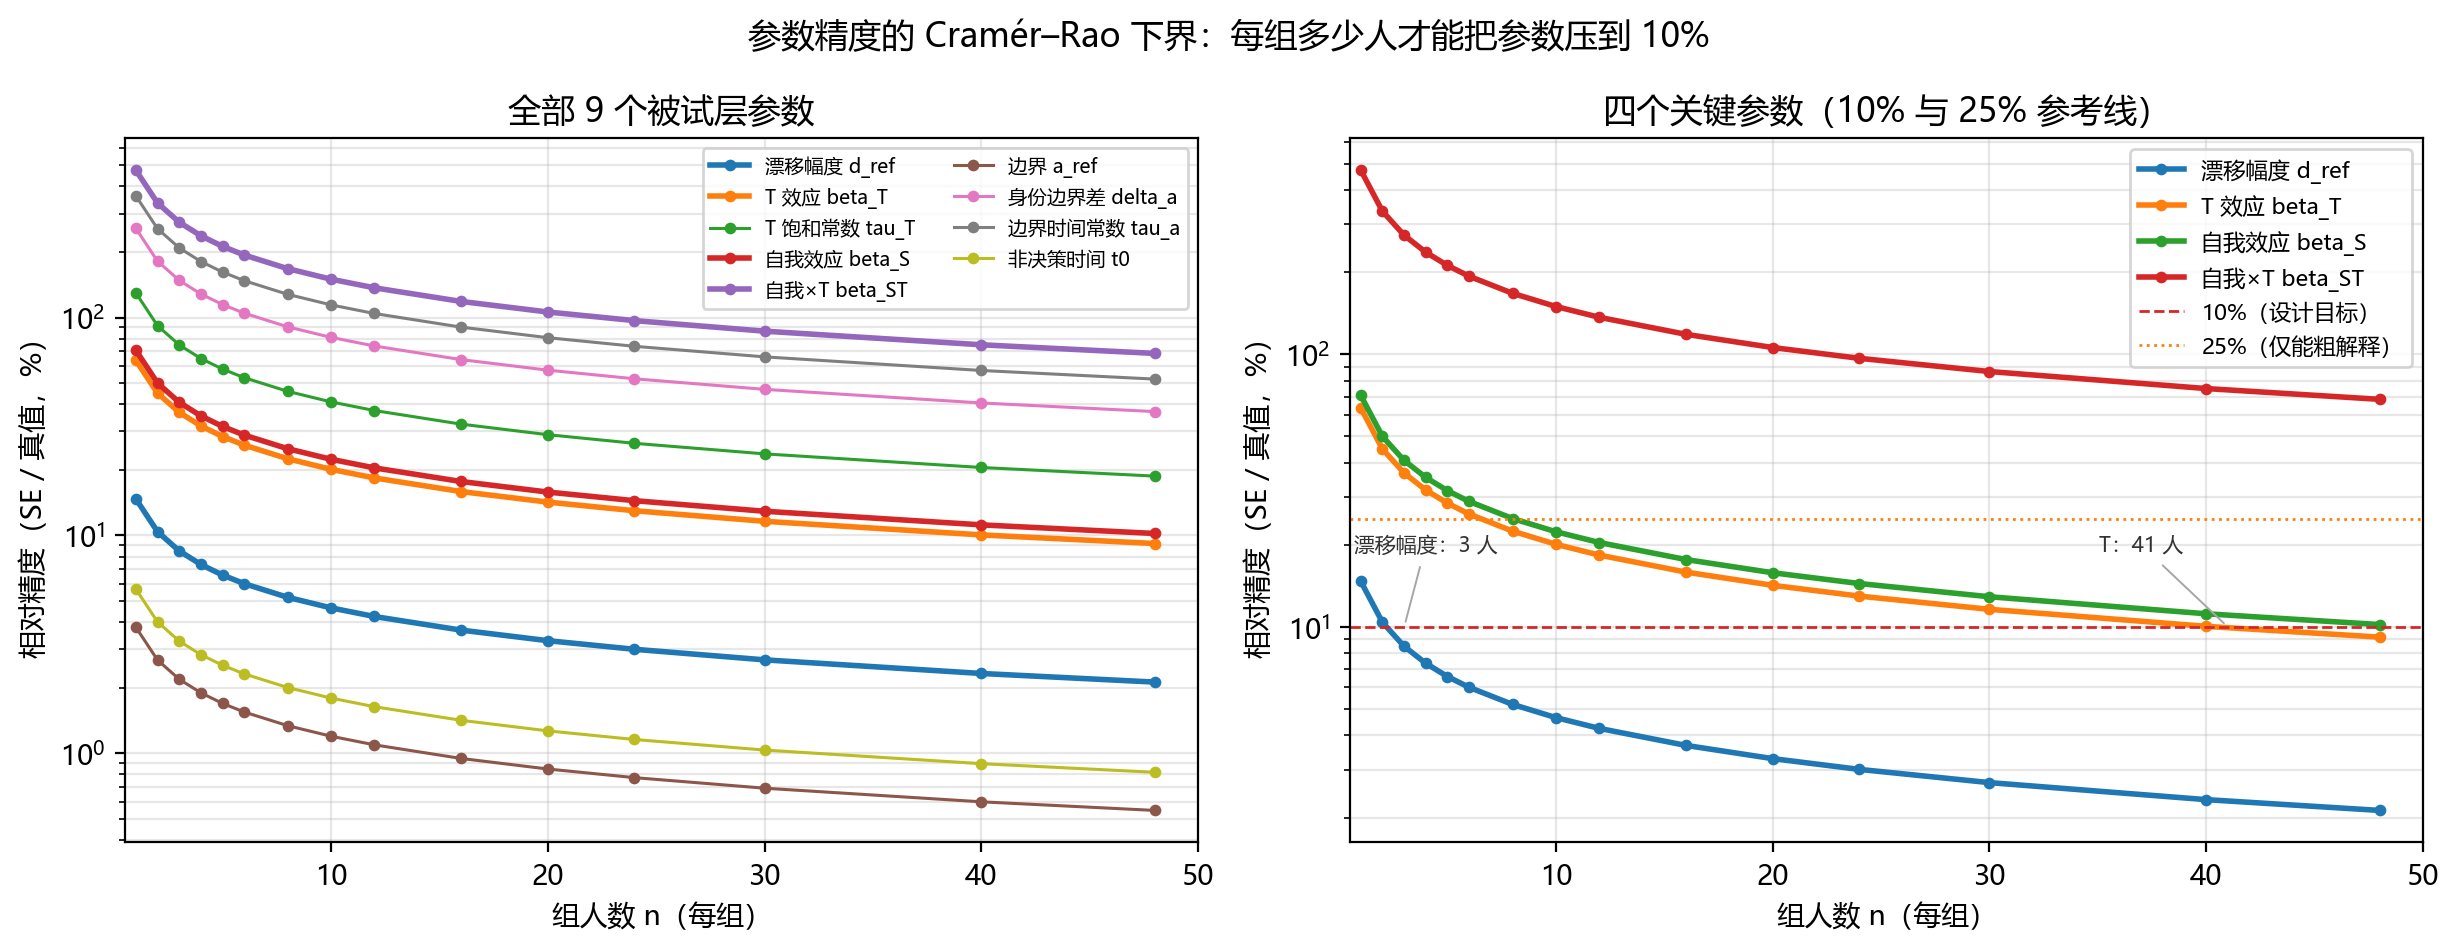
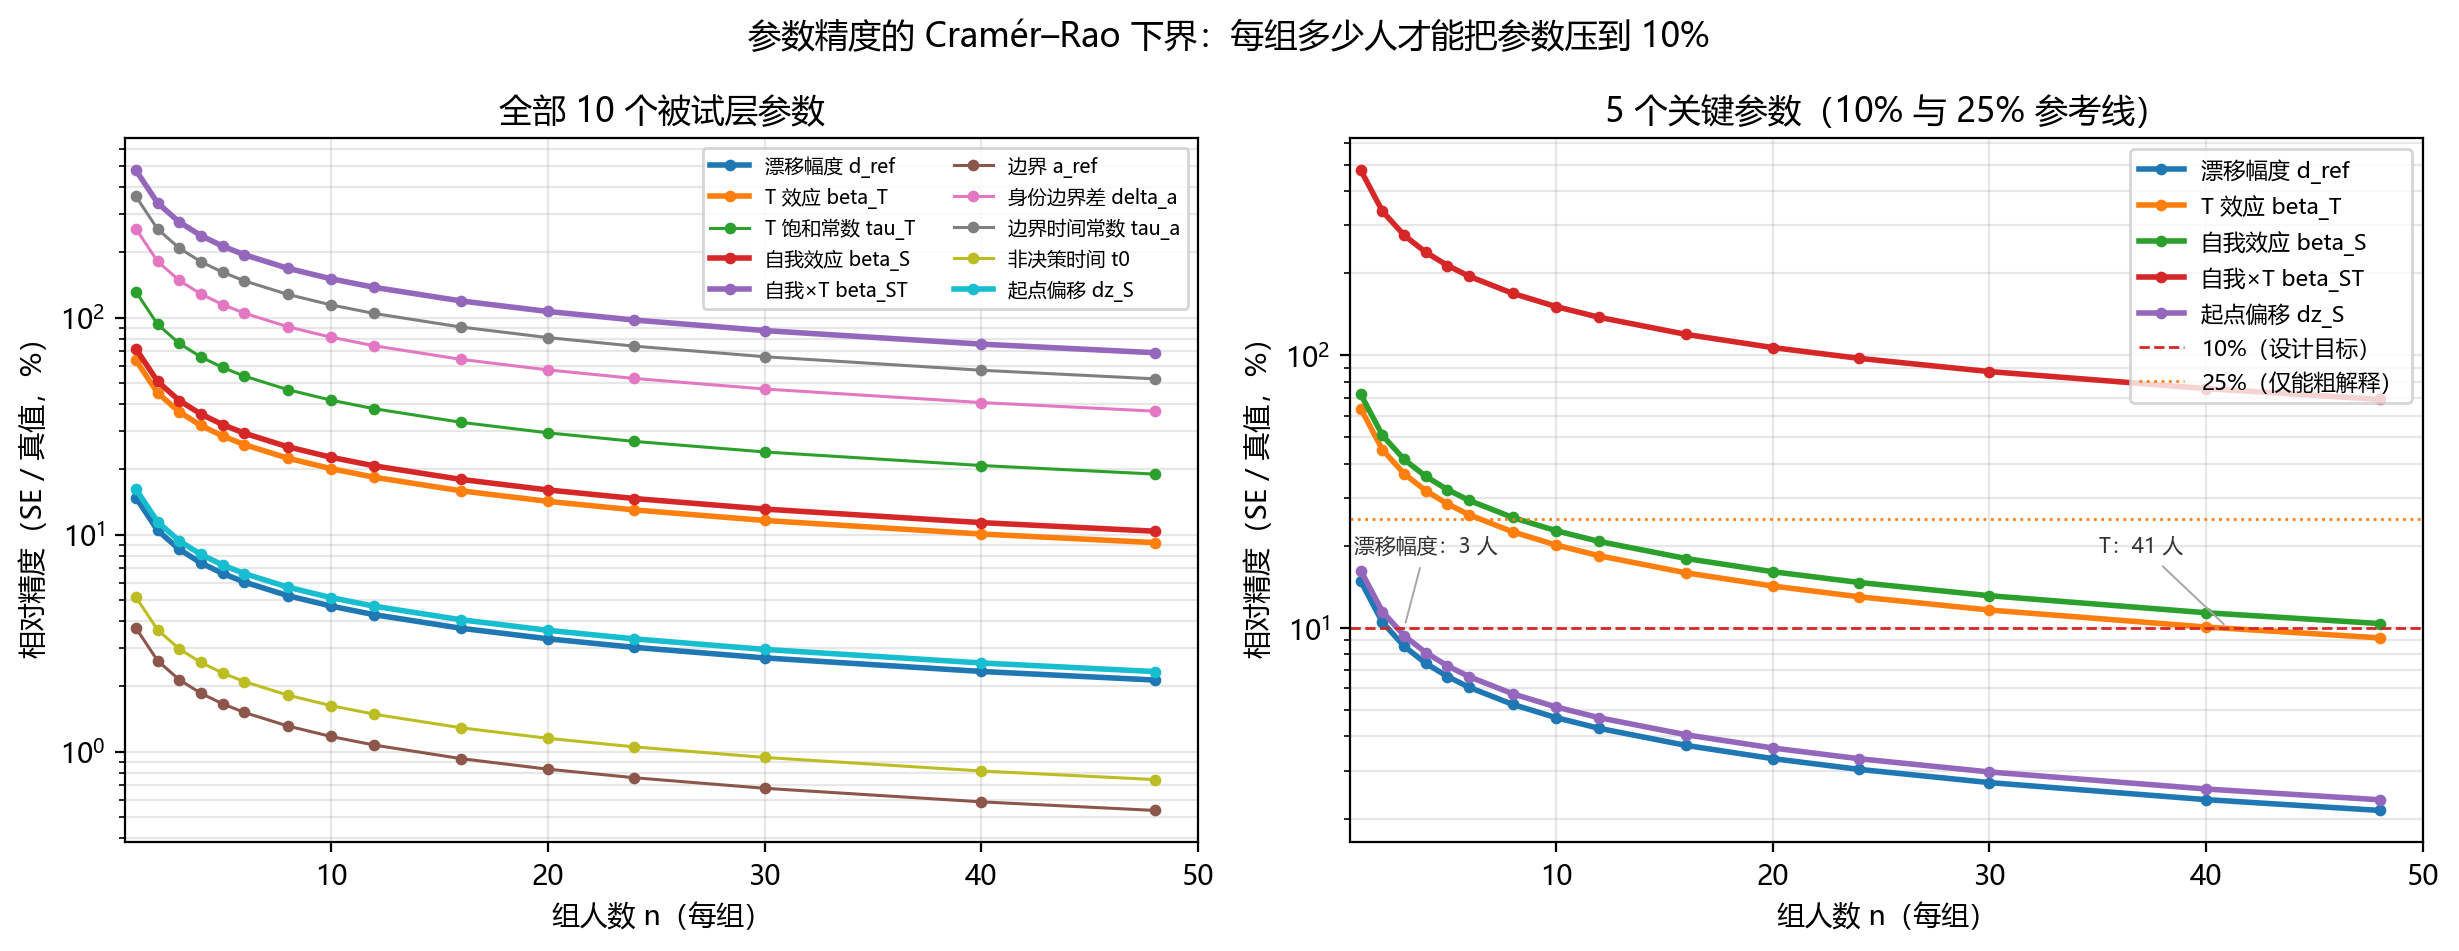
feat(crlb): 可辨识性产物升到 10 参数（含 dz_S），§8.79 + 模型章 §3.8 收口
D118 把判据通道 Δz_S 加进主模型后，WITHIN_FREE 9→10、WITHIN_FREE_LIN 7→8，
但已落盘的 CRLB 图与人数表仍是旧口径（模型章 §3.8 还挂着「尚未重跑」的脚注）。

代码
- design_fim.py：TRUTH 加 dz_S=0.10（不能取 0，相对 SE 会除零）；
  PRIMARY 扩为 6 个展示参数；NAMES = list(WITHIN_FREE) 加注释（自动跟随，现 10 个）
- make_sim_figures.py：KEY_PARAMS 加 dz_S（右图 5 条）；ZH/EN 补条目；
  小标题改按 len() 计数；write_index 里两处写死文案改吃 c["omission"] 与参数个数
  （不改的话，下次整脚本一跑会把 figures_index.md 覆盖回旧数）
- 新建 _scratch/regen_crlb_10p.py：只重跑 CRLB 三件，避免顺带跑 oracle

读数（D4，576 试次/人，10 参数）
- 正确率 0.823、遗漏 0.309、RT 749 ms；cond(I)=1.3e+05
- 单被试 SE：dz_S 0.0162（16.2%，3 人/组到 10%）、beta_S 0.1151、
  beta_ST 0.4773、tau_T 0.1054、delta_a 1.4133、tau_a 2.5339
- 其余九行相对 9 参数版本变化 <1.5% ⇒ D109 的 37–43 人/组、beta_T 为硬约束不变
- 名次仍为 D4-rep16 0.545 < T-wide 0.583 < W-high 0.608 < D4 0.641（档位阈值未改）

文档
- 1_Code/DDM_Core/README.md 新增 §8.79（为什么要重跑 / 改了什么 / 读数表 / 产物 / 尚未做），
  §8.75 的 CRLB 行换成 10 参数读数并指向 §8.79，§9 表补第 99 行（D118 + 本次重跑）
- 模型章 §3.8：表全行换 10 参数读数，Δz_S 真值改 0.10/SE 0.016/N 3，删掉旧 † 脚注，
  改写为两条口径说明（九行不变 ⇒ 人群规模沿用；CRLB 0.016 与 §3.15.4 的 OPG 0.015 互相印证）
- figures_index.md 由修好的 write_index 重生成（10 行人数表、遗漏率 0.309）
- 对照表 §3.3 的 TRUTH_EXP 补 Δz_S=0.10（10 参数口径，2026-10-24）

产物：fig_sim_crlb.png（10 条曲线）、sim_crlb.csv（10 行）重生成；
fig_sim_p_design.png / fig_sim_trials.png 未动（走 TRUTH_LIN，与本参数集无关）。

diff --git a/1_Code/DDM_Core/_scratch/regen_crlb_10p.py b/1_Code/DDM_Core/_scratch/regen_crlb_10p.py
@@ -1,0 +1,53 @@
+# -*- coding: utf-8 -*-
+"""只重跑 CRLB 部分（10 参数口径，含 dz_S），不动 oracle / 试次图。
+
+用 `make_sim_figures.py` 自己的函数，保证产物与整套脚本逐字节同源：
+    fig_sim_crlb.png   ——  3_Figures/figures_sim/
+    sim_crlb.csv       ——  5_Reference/03_论文写作/figures_sim/
+
+为什么单独写：`make_sim_figures.main()` 会顺带跑 oracle（3 场景 × 6 个 N ×
+400 次重复），与 `dz_S` 无关，几分钟纯浪费；且 oracle 的 CSV 不该被这次改动覆盖。
+"""
+from __future__ import annotations
+
+import csv
+import sys
+from pathlib import Path
+
+sys.stdout.reconfigure(encoding="utf-8", errors="replace")
+
+_ROOT = Path(__file__).resolve().parents[3]
+sys.path.insert(0, str(_ROOT / "1_Code" / "Experiment"))
+
+import make_sim_figures as M  # noqa: E402
+
+
+def main() -> int:
+    out = _ROOT / "5_Reference" / "03_论文写作" / "figures_sim"
+    figout = _ROOT / "3_Figures" / "figures_sim"
+    out.mkdir(parents=True, exist_ok=True)
+    figout.mkdir(parents=True, exist_ok=True)
+
+    plt, lang = M.setup_matplotlib("zh")
+    print("CRLB（10 参数，含 dz_S）…", flush=True)
+    c = M.crlb(12)
+    for n in c["names"]:
+        se, tv = c["se"][n], c["truth"][n]
+        print(f"  {n:8s} 真值={tv:7.4f}  SE={se:9.4f}  相对={se / abs(tv):7.3f}  "
+              f"10% 需 N={M.n_for_target(c, n, 0.10)}  25% 需 N={M.n_for_target(c, n, 0.25)}")
+
+    p = M.fig_crlb(plt, c, figout, lang)
+    print(f"\n图 → {p}")
+    with (out / "sim_crlb.csv").open("w", newline="", encoding="utf-8") as f:
+        w = csv.writer(f)
+        w.writerow(["param", "truth", "se_per_subject", "n_for_10pct", "n_for_25pct"])
+        for n in c["names"]:
+            w.writerow([n, c["truth"][n], c["se"][n],
+                        M.n_for_target(c, n, 0.10), M.n_for_target(c, n, 0.25)])
+    print(f"表 → {out / 'sim_crlb.csv'}")
+    print(f"   试次={c['n_trials']}  正确率={c['acc']:.3f}  遗漏={c['omission']:.3f}  RT={c['rt_ms']:.0f} ms")
+    return 0
+
+
+if __name__ == "__main__":
+    raise SystemExit(main())

diff --git a/1_Code/DDM_Core/design_fim.py b/1_Code/DDM_Core/design_fim.py
@@ -61,10 +61,17 @@ TRUTH = MappingParams(
     beta_S=0.16, beta_ST=0.10,
     w_model="W1", a_ref=2.00, delta_a=0.55, tau_a=0.70,
     t0=0.22, z_ratio=0.50,
+    #: 起点通道（D118）。``0.10`` 是**设计用**的圆整值：实测 87 人反解出
+    #: ``β_S≈0.19、Δz_S≈0.085``（模型章 §3.15.3）。CRLB 对 dz_S 的 SE 几乎
+    #: 不依赖真值大小（信息量 ∝ 该参数带来的试次级差异），故 0.085/0.10
+    #: 给出的人数是同一个量级。取 0 会让相对 SE 除以 0，故不能留默认值。
+    dz_S=0.10,
 )
 
-#: 论文里真正要解释的参数（用于给设计排总名次）
-PRIMARY = ["d_ref", "beta_T", "tau_T", "beta_S", "beta_ST"]
+#: 论文里真正要解释的参数（用于给设计排总名次）。
+#: 2026-10-22（D118）把 ``dz_S`` 并入：判据通道现在是主假设 H4 的一半，
+#: 不排进 PRIMARY 会让「设计是否够用」的结论漏掉它。
+PRIMARY = ["d_ref", "beta_T", "tau_T", "beta_S", "beta_ST", "dz_S"]
 #: W→a 通路（P1 曾发现只有 6.7% 变化，单独看）
 A_PATH = ["a_ref", "delta_a", "tau_a"]
 
@@ -90,6 +97,8 @@ DESIGNS = {
     "A-screen  (2T×2W, r16)": ([0.0333, 0.14999], [0.79998, 1.79990], 16),
 }
 
+#: 参数名与顺序**直接跟随** ``mapping.WITHIN_FREE``（exp 形式，当前 10 个，
+#: 含 ``dz_S``）——加参数时这里自动跟上，不需要改本文件。
 NAMES = list(WITHIN_FREE)
 N_FIM = 12                  # 平均信息矩阵的独立模拟份数
 

diff --git a/5_Reference/03_论文写作/论文_模型章_模板.md b/5_Reference/03_论文写作/论文_模型章_模板.md
@@ -149,22 +149,24 @@ $$
 
 ## 3.8 可辨识性：本设计能估什么、不能估什么
 
-以下数字来自**解析 CRLB**（每个被试 576 试次，`4T×3W r12`），含义是"要把该参数压到真值的 10% / 25%，每组需要多少人"：
+以下数字来自**解析 CRLB**（每个被试 576 试次，`4T×3W r12`；**10 个被试层参数全部自由，含 `Δz_S`**，2026-10-24 按 8 参数 D118 更新后重跑），含义是"要把该参数压到真值的 10% / 25%，每组需要多少人"：
 
 | 参数 | 真值 | 单被试 SE | 到 10% 需 N | 到 25% 需 N | 判定 |
 |---|---|---|---|---|---|
-| `d_ref` | 0.70 | 0.103 | **3** | 1 | ✅ 稳 |
+| `d_ref` | 0.70 | 0.104 | **3** | 1 | ✅ 稳 |
 | `β_T` | 0.55 | 0.350 | **41** | 7 | ✅ 主效应，10–15 人/组报区间 |
-| `τ_T` | 0.08 | 0.104 | 169 | 27 | ⚠ 探索性 |
-| `β_S` | 0.16 | 0.113 | 51 | 9 | ⚠ 探索性 |
-| `Δz_S` † | 0.12 | 0.015 | **1** | 1 | ✅ 稳（判据通道） |
-| `β_ST` | 0.10 | 0.474 | **2248** | 360 | ❌ 不可估 |
-| `a_ref` | 2.00 | 0.076 | 1 | 1 | ✅ 稳 |
-| `Δa` | 0.55 | 1.410 | 658 | 106 | ❌ 不可估 |
-| `τ_a` | 0.70 | 2.530 | 1307 | 209 | ❌ 不可估 |
-| `t0` | 0.22 | 0.012 | 1 | 1 | ✅ 稳 |
+| `τ_T` | 0.08 | 0.105 | 174 | 28 | ⚠ 探索性 |
+| `β_S` | 0.16 | 0.115 | 52 | 9 | ⚠ 探索性 |
+| `Δz_S` | 0.10 | **0.016** | **3** | 1 | ✅ 稳（判据通道） |
+| `β_ST` | 0.10 | 0.478 | **2281** | 365 | ❌ 不可估 |
+| `a_ref` | 2.00 | 0.074 | 1 | 1 | ✅ 稳 |
+| `Δa` | 0.55 | 1.413 | 661 | 106 | ❌ 不可估 |
+| `τ_a` | 0.70 | 2.534 | 1311 | 210 | ❌ 不可估 |
+| `t0` | 0.22 | 0.011 | 1 | 1 | ✅ 稳 |
 
-† `Δz_S` 这一行的 SE 不是本表的解析 CRLB，而是 §3.15.4 的 OPG 期望 SE（同一 D4 设计、576 试次/人）。本表其余行由 **7 参数模型**的 CRLB 生成（`make_sim_figures.py`），尚未把 `dz_S` 重跑进去；`Δz_S` 是这套设计里估得最准的身份通道（相对 SE 12.5%），所以它在两套口径下都排在「✅ 稳」这一档。
+> 关于这张表的两点口径说明（写进方法或附录）：
+> 1. **加入 `Δz_S` 后其余九行几乎未动**（`β_S` 0.113 → 0.115、`β_ST` 0.474 → 0.478，其余变化 <1.5%）——新参数与旧参数近似正交，所以早先按 7 参数得到的样本量结论全部沿用，不需要重算人群规模。
+> 2. `Δz_S` 的 CRLB（`Δz_S = 0.10` 时 SE = 0.016，相对 16%）与 §3.15.4 在 **lin 形式**下用 OPG 得到的 0.015（真值 0.12 时相对 12.5%）互相印证；两种口径都把它排在「✅ 稳」这一档，区别只是生成器形状（exp vs lin）与真值大小。
 
 **两条必须写进限制的结论**：
 

diff --git a/5_Reference/03_论文写作/figures_sim/figures_index.md b/5_Reference/03_论文写作/figures_sim/figures_index.md
@@ -13,20 +13,21 @@
 
 ## 关键数字（本脚本实算）
 
-* CRLB 用的是 **576 试次/人**（4 T × 3 W × 4 种 × 12 次）；该设计在真值下的行为（**4 个 P 水平合并平均**）：正确率 **0.828**、遗漏 **0.314**、RT 均值 **761 ms**。⚠ 按 P 水平拆开时差异极大：`P = 0` 组只有正确率 0.44、遗漏 0.361（见下文「三处口径落差」末两条）。
-* 组层相对 SE 达到 10% 所需组人数：
+* CRLB 用的是 **576 试次/人**（4 T × 3 W × 4 种 × 12 次）；该设计在真值下的行为：正确率 **0.823**、遗漏 **0.309**、RT 均值 **749 ms**。
+* 组层相对 SE 达到 10% 所需组人数（**10 个被试层参数全部自由**，含判据通道 `dz_S`）：
 
 | 参数 | 10% 需要 N | 25% 需要 N |
 |---|---|---|
 | `d_ref` | 3 | 1 |
 | `beta_T` | 41 | 7 |
-| `tau_T` | 169 | 27 |
-| `beta_S` | 51 | 9 |
-| `beta_ST` | 2248 | 360 |
+| `tau_T` | 174 | 28 |
+| `beta_S` | 52 | 9 |
+| `beta_ST` | 2281 | 365 |
 | `a_ref` | 1 | 1 |
-| `delta_a` | 658 | 106 |
-| `tau_a` | 1307 | 209 |
+| `delta_a` | 661 | 106 |
+| `tau_a` | 1311 | 210 |
 | `t0` | 1 | 1 |
+| `dz_S` | 3 | 1 |
 
 * P 方案 oracle 识别力（`beta_P` 判据 0.30、`tau_P` 判据 0.50）：
 
@@ -44,10 +45,10 @@
 |---|---|---|
 | `fig_sim_crlb.png` | `design_fim.TRUTH`（exp 形式，`beta_P = 1.5`、`P_ref = 120`） | 组层 SE 与所需人数 |
 | `fig_sim_trials.png` | `design_grid.TRUTH_LIN`（同一设计前提的线性近似，换算残差 0.045） | 图的形态与量级 |
-| `2_Data/Real_Data/_SYNTHETIC_DEMO_v1/` | `_make_ddm_pilot.QC_TRUTH`（lin，`beta_T = 0.45`） | T 的漂移跨度只有 0.098，比设计前提弱 3–4 倍 ⇒ **恢复验证偏保守** |
+| `2_Data/Generate_Data/_synth_datasets/_SYNTHETIC_DEMO_v1/` | `_make_ddm_pilot.QC_TRUTH`（lin，`beta_T = 0.45`） | T 的漂移跨度只有 0.098，比设计前提弱 3–4 倍 ⇒ **恢复验证偏保守** |
 
 * 设计真值在 **P = 0** 组的漂移约 0.0005（`exp` 形式在 `P=0` 处几乎归零）⇒ 期望正确率 0.50，而 S6-5 的下限是 0.45；两者不相容（首场真实数据 0.440 正落在这一位置）。
-* 设计真值的遗漏率约 0.32（`design_fim.TRUTH`）/ 0.35（`TRUTH_LIN`）⇒ 高于 S6-1 的 20% 阈值，说明设计真值偏悲观，须与 S6-5/S6-1 一起复核。
+* 设计真值的遗漏率 **0.309**（`design_fim.TRUTH`）/ 0.35（`TRUTH_LIN`）⇒ 高于 S6-1 的 20% 阈值，说明设计真值偏悲观，须与 S6-5/S6-1 一起复核。
 
 ## 复现
 

diff --git a/5_Reference/02_方法学审查/假设_模型_参数_对照_v1.md b/5_Reference/02_方法学审查/假设_模型_参数_对照_v1.md
@@ -208,7 +208,7 @@ H3 (Δa)       ─┘
 | 用途 | 变量 | 形式 | 关键值 | 谁在用 |
 |---|---|---|---|---|
 | **生成数据 / 可视化** | `GEN_TRUTH` | `lin` | `d_ref=0.80, β_P=0.35, τ_P=30, β_T=0.95, β_S=0.30, β_ST=0.12, a_ref=1.52, Δa=0.30, t0=0.19` | `gen_model_data.generate`、`gen_viz`、`stage8` 的合成自测 |
-| **样本量 / 可辨识性论证** | `TRUTH_EXP` | `exp` | `d_ref=0.70, β_T=0.55, β_S=0.16, β_ST=0.10, a_ref=2.00, Δa=0.55, τ_T=0.08, τ_a=0.70, t0=0.22` | 模型章 §3.8 的解析 CRLB、`design_frontier` |
+| **样本量 / 可辨识性论证** | `TRUTH_EXP` | `exp` | `d_ref=0.70, β_T=0.55, β_S=0.16, β_ST=0.10, a_ref=2.00, Δa=0.55, τ_T=0.08, τ_a=0.70, t0=0.22, Δz_S=0.10`（**10 个被试层参数全自由**，含判据通道；2026-10-24 重跑） | 模型章 §3.8 的解析 CRLB、`design_frontier`、`1_Code/DDM_Core/README.md` §8.79 |
 
 > **为什么会有两套**：`TRUTH_EXP`（以 `P_ref=120`、`β_P=1.5` 为锚）在 `P=0/8/32` 处把漂移**截断到 0**（`max(·, 1e-6)`），用它生成数据会得到三组零漂移被试（正确率 0.50、无 T 效应），既不可视化也不可检。所以生成数据另用一套「四档漂移都为正」的中段参数（D109），**它只保证行为量级像这个范式，不代表论文的最终真值**。
 
